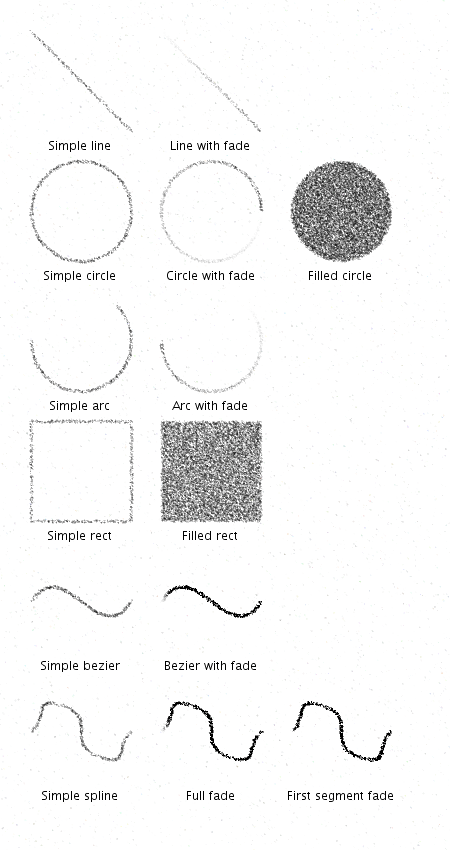
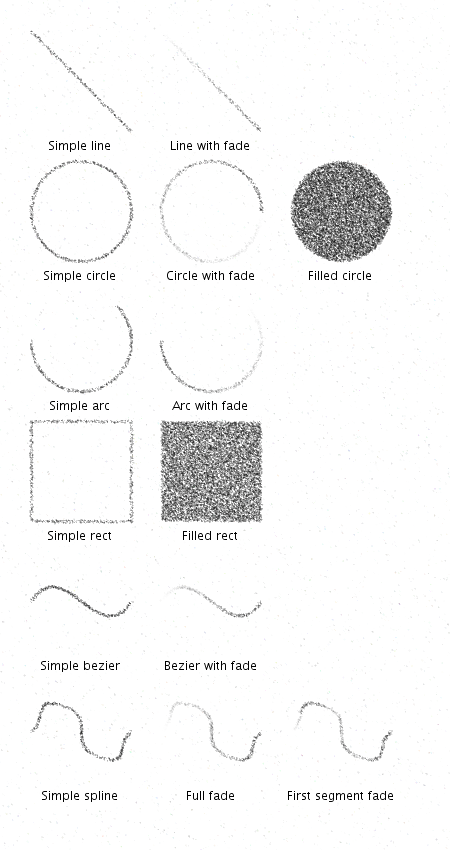
Regenerate examples after fix, and improve contrast in print quality

diff --git a/src/paperandpencil/PaperAndPencil.java b/src/paperandpencil/PaperAndPencil.java
@@ -190,12 +190,14 @@ public class PaperAndPencil {
     }
 
     /**
-     * Sets the fill color with a specific alpha value while preserving the current color's other components
+     * Sets the fill color with a specific alpha value while preserving the current color's other components.
+     * In print mode, applies contrast enhancement to make lights lighter and darks darker.
      */
     private void setFillWithAlpha(float alpha) {
-        // In print mode, increase contrast by using stronger alpha values
+        // In print mode, apply non-linear contrast enhancement
         if (qualityMode == QualityMode.PRINT) {
-                        alpha = 0.2f + (alpha * 0.8f); // Minimum alpha of 0.2 for more solid lines
+            // Apply curve to increase contrast - makes lights lighter and darks darker
+            alpha = (float)Math.pow(alpha, 1.5);
         }
         p.fill(p.hue(pencilColor), p.saturation(pencilColor), 
             p.brightness(pencilColor), p.alpha(pencilColor) * alpha);
